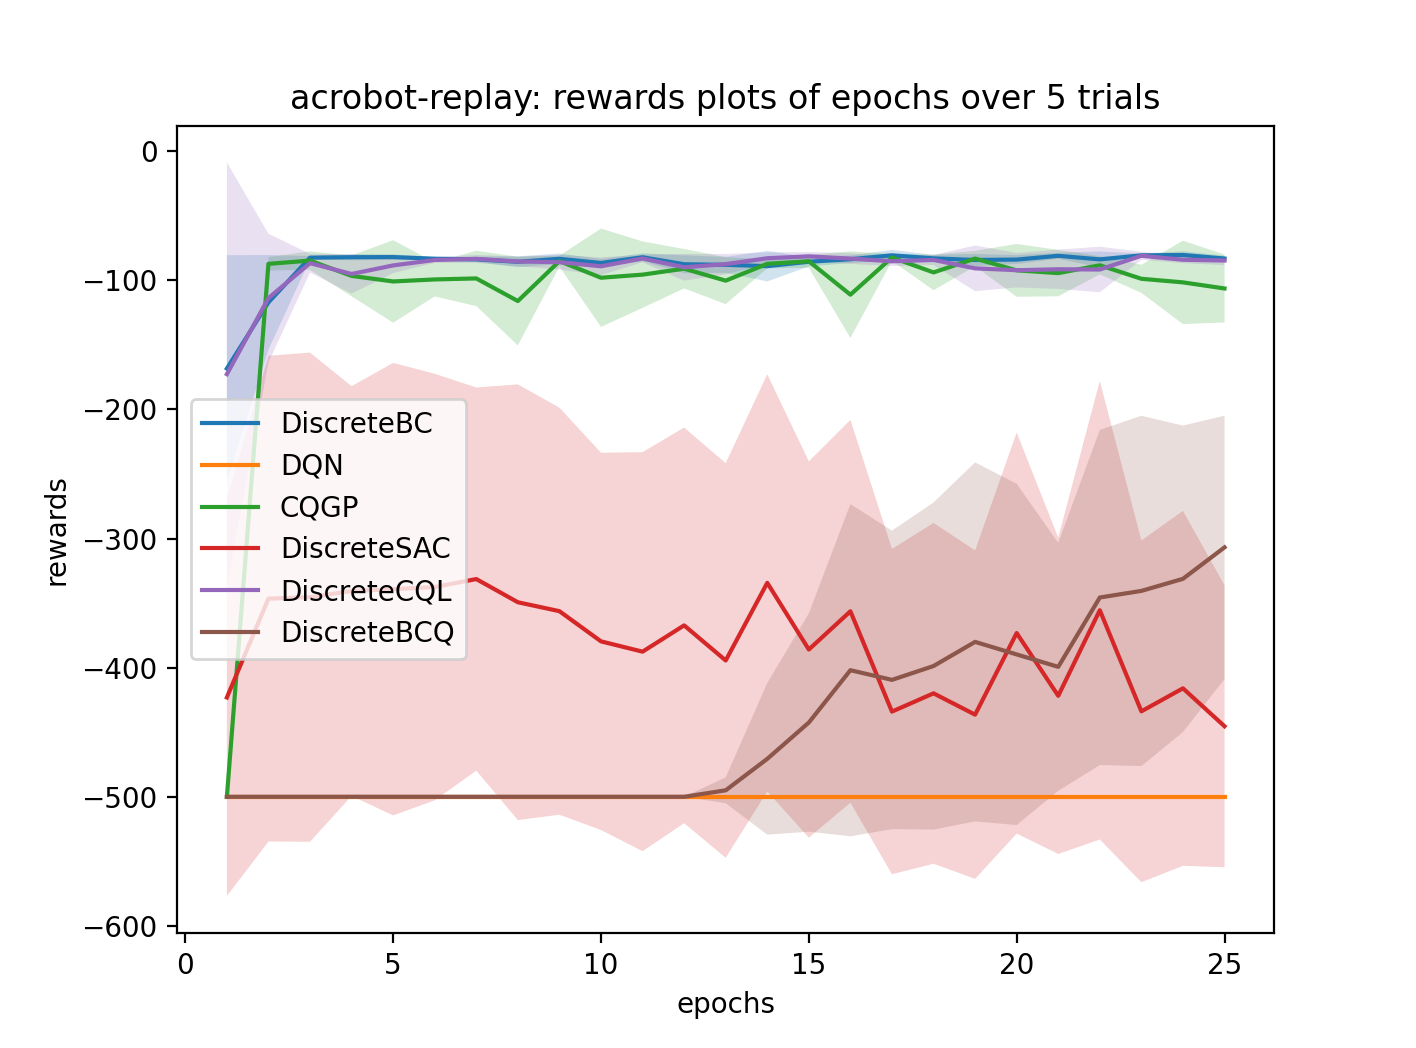
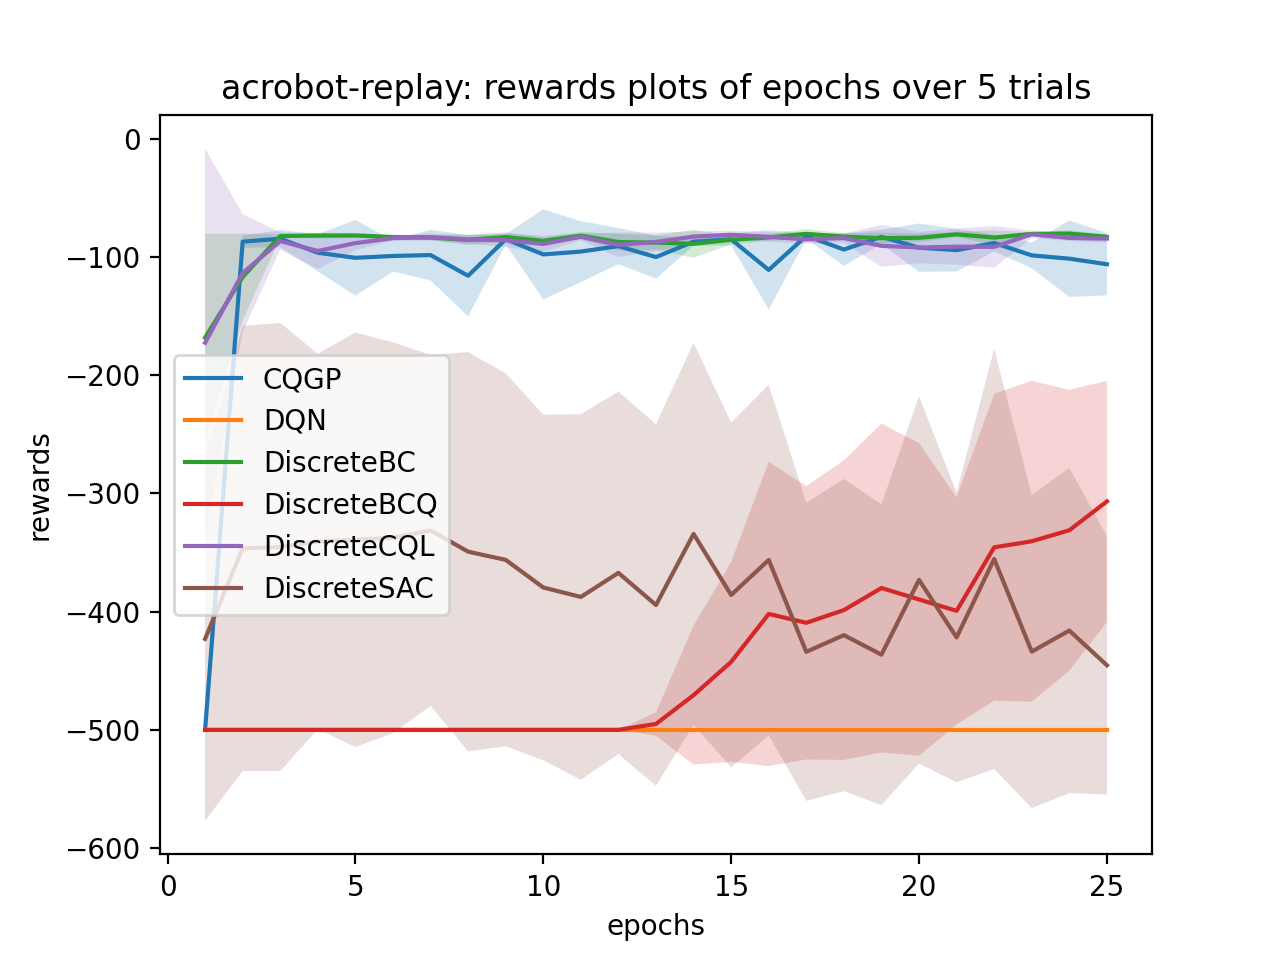
Updated plot legends

diff --git a/visualization/data_plot.py b/visualization/data_plot.py
@@ -38,7 +38,8 @@ def plot_records_list(
 	# truncate horizon (assuming monotonic increasing)
 	min_horizon = min([len(records.get_data()[horizon_name]) for records in records_list])
 
-	for algo_name in algo_to_records:
+	for algo_name in sorted(algo_to_records.keys()):
+		print(algo_name)
 		algo_records_list = algo_to_records[algo_name]
 
 		horizon = algo_records_list[0].get_data(min_horizon)[horizon_name]
@@ -53,7 +54,7 @@ def plot_records_list(
 		env_name, value_description, horizon_name, next(iter(experiment_counts))))
 	axes.set_ylabel(value_description)
 	axes.set_xlabel(horizon_name)
-	axes.legend(list(algo_to_records.keys()))
+	axes.legend(sorted(list(algo_to_records.keys())))
 
 def plot_records_in_dir(
 		log_dir: str,
